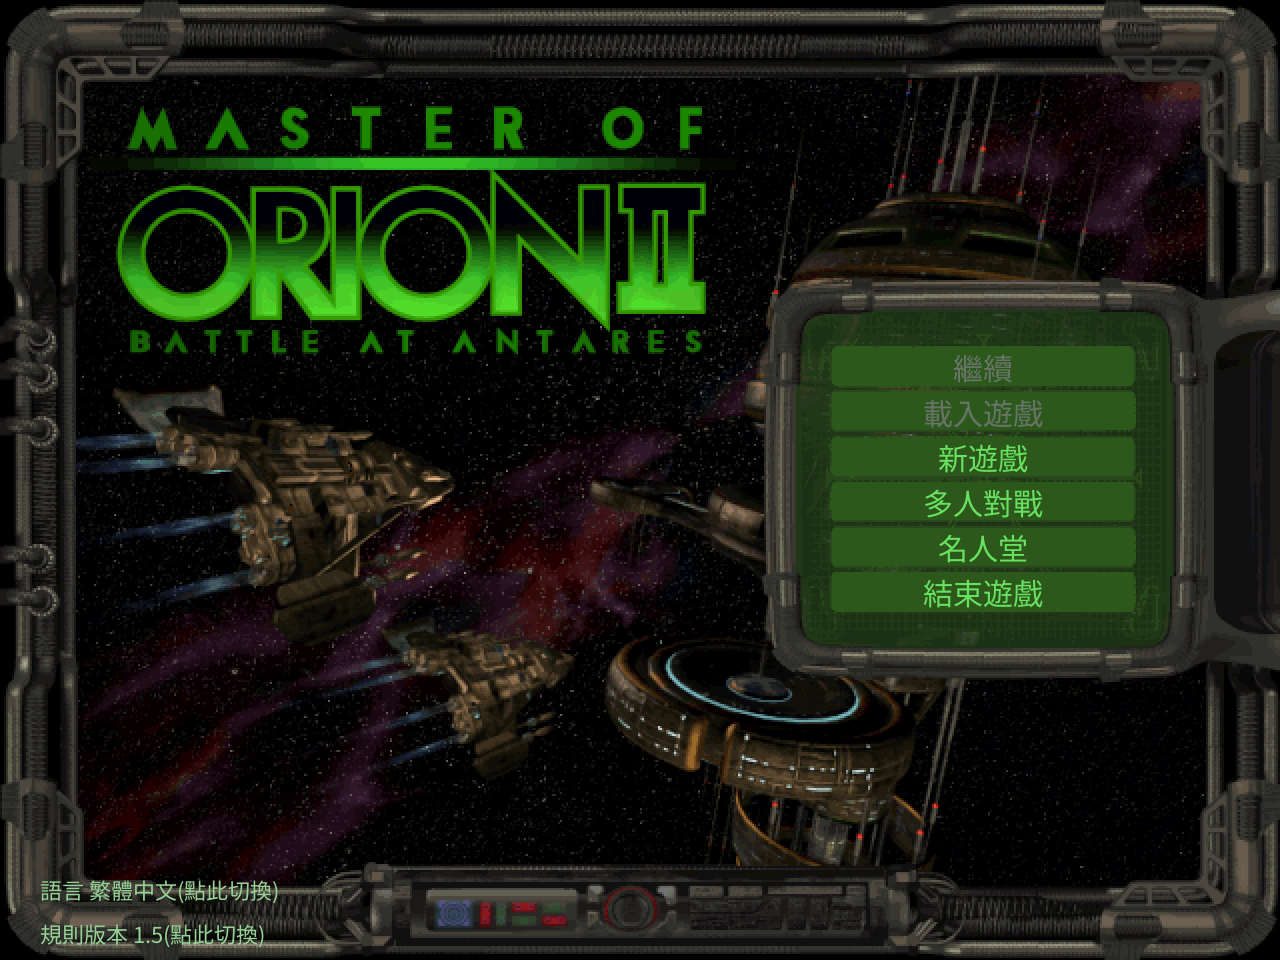
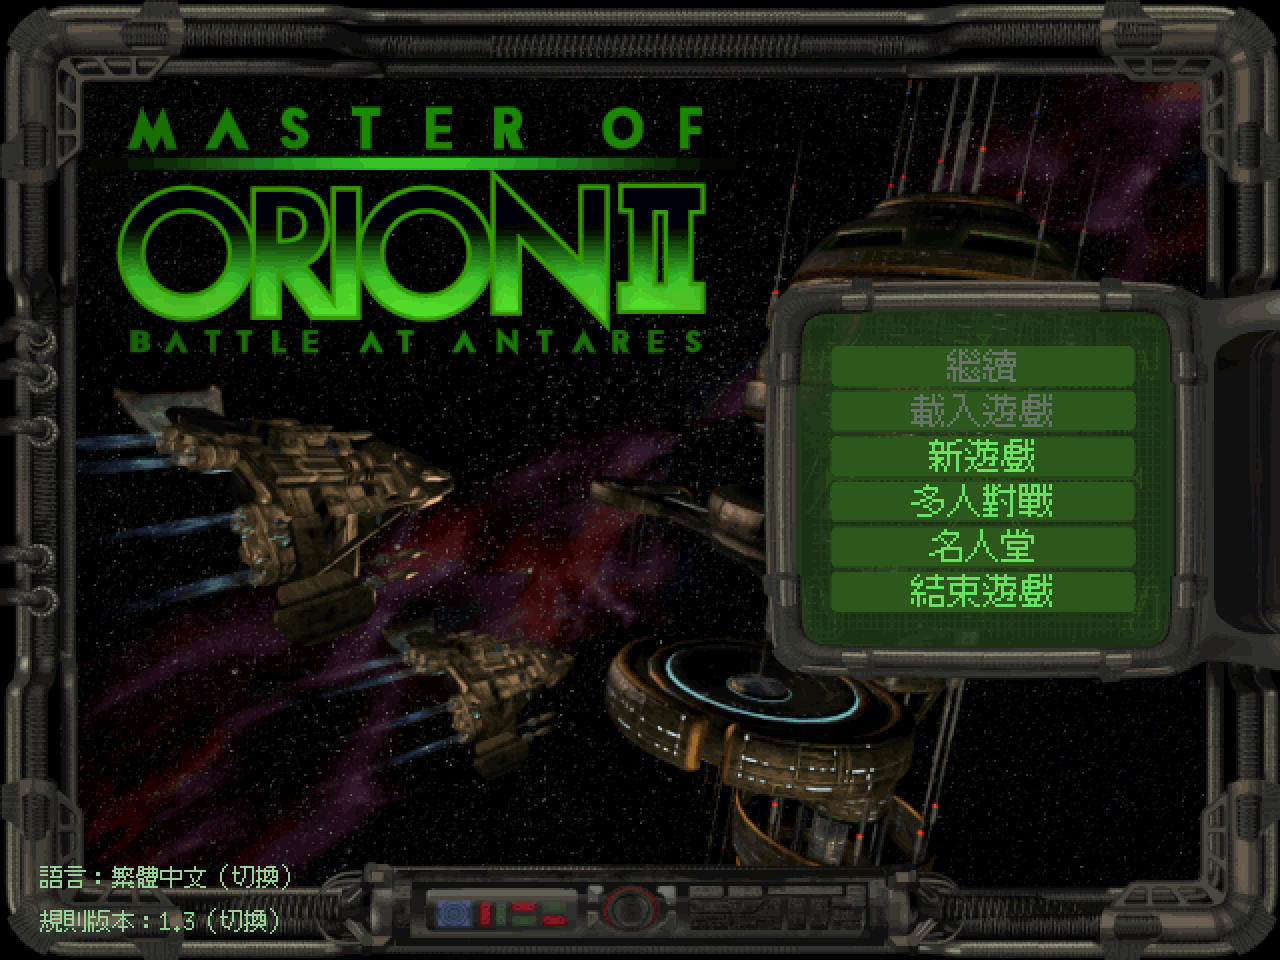
外部化主選單動態文案

Changed region(s): [[0.7188, 0.3438, 0.8438, 0.6562], [0.0312, 0.9062, 0.2188, 1.0]]

diff --git a/cmd/moo2/interactive.go b/cmd/moo2/interactive.go
@@ -609,16 +609,6 @@ func savePathFor() string { return shell.SaveSlotPath(saveDirFor(), shell.AutoSa
 // menu 建原版主選單畫面。按鈕熱區用 menuOverlays 的座標(按鈕即標籤)。
 func (b *sceneBuilder) menu() (*overlayScreen, error) {
 	playBackgroundMusic() // 原版主選單走 Play_Background_Music_:STREAM 1/2/3 每次重擲
-	// 左下兩個設定開關的文字不能貼著畫布或底部裝飾邊。寬度以實際熱區扣掉左右
-	// 留白來限制；英文較長時寧可在語意完整的「切換」提示前截斷，也不越出框外。
-	const (
-		menuToggleHitX    = 12
-		menuToggleHitW    = 220
-		menuToggleLabelX  = 20
-		menuToggleLabelW  = 196
-		menuToggleTextY   = 436
-		menuToggleTextGap = 22
-	)
 	// 無存檔時 Continue / Load Game **停用**:不給熱區(點了不動作)+ 標籤畫成灰的。
 	// 這是 2026-07-12 archive.org 原版 oracle 對照的 issue #2 結論——原版那兩顆本來就是
 	// 灰階不可按,remake 先前是「可按但靜默無反應」,玩家會以為壞了。
@@ -633,10 +623,10 @@ func (b *sceneBuilder) menu() (*overlayScreen, error) {
 		hits = append(hits, hitRegion{o.x, o.y, o.w, o.h, o.enKey})
 	}
 	// 規則版本切換(CLAUDE.md:主選單選 1.3/1.5)——左下角熱區,點擊循環切換,開局注入 RuleProfile。
-	hits = append(hits, hitRegion{menuToggleHitX, 450, menuToggleHitW, 22, "toggleVersion"})
+	hits = append(hits, hitRegion{menuToggleHitX, menuVersionY, menuToggleHitW, menuToggleHitH, "toggleVersion"})
 	// 語言切換(CLAUDE.md:「允許在主選單選擇中文/英文」)——擺在版本切換正上方。
 	// 先前語言只有啟動旗標 `-lang`,進了遊戲就換不掉,不符合這條需求。
-	hits = append(hits, hitRegion{menuToggleHitX, 428, menuToggleHitW, 22, "toggleLang"})
+	hits = append(hits, hitRegion{menuToggleHitX, menuLanguageY, menuToggleHitW, menuToggleHitH, "toggleLang"})
 	onAction := func(a string) *origTransition {
 		switch a {
 		case "toggleLang":
@@ -648,7 +638,7 @@ func (b *sceneBuilder) menu() (*overlayScreen, error) {
 			} else {
 				b.lang = i18n.Traditional
 			}
-			return b.goTo(b.menu, "主選單")
+			return b.goTo(b.menu, uiText(b.lang, "mainmenu.transition.main_menu"))
 		case "toggleVersion":
 			next := gamedata.VersionCommunity15
 			if b.gameVersion == gamedata.VersionCommunity15 {
@@ -659,14 +649,14 @@ func (b *sceneBuilder) menu() (*overlayScreen, error) {
 				fmt.Fprintln(os.Stderr, "切換遊戲版本:", err)
 				return nil
 			}
-			return b.goTo(b.menu, "主選單") // 重繪以更新版本顯示
+			return b.goTo(b.menu, uiText(b.lang, "mainmenu.transition.main_menu")) // 重繪以更新版本顯示
 		case "Quit Game":
 			return &origTransition{quit: true}
 		case "New Game":
 			// 新遊戲:先進原版 NEW GAME 設定畫面(難度/星系/玩家…),ACCEPT 後進星系主畫面。
 			b.pendingHotseat = 0 // 單人局(從多人設定畫面進來的才會帶席位數)
 			b.pendingHotseatAI = nil
-			return b.goTo(b.newGameSetup, "新遊戲設定")
+			return b.goTo(b.newGameSetup, uiText(b.lang, "mainmenu.transition.new_game"))
 		case "Multi Player":
 			// 原版 MULTI-PLAYER GAME SET UP(見 cmd/moo2/multiplayer.go)。
 			// remake 只實作其中的 HOTSEAT,其餘連線方式在那個畫面裡明示未實作。
@@ -696,7 +686,7 @@ func (b *sceneBuilder) menu() (*overlayScreen, error) {
 				b.session.SetMercCandidates(b.herodataMercs) // 讀檔建的是新 session,重注入真英雄池
 			}
 			b.savePath = path // 後續自動存檔寫回同一格
-			return b.goTo(b.galaxy, "星系主畫面")
+			return b.goTo(b.galaxy, uiText(b.lang, "mainmenu.transition.galaxy"))
 		case "Load Game":
 			// 開原版的十格存檔選擇視窗(見 cmd/moo2/loadgame.go)。無存檔時這顆鈕停用。
 			if !shell.AnySaveExists(saveDirFor()) {
@@ -711,7 +701,7 @@ func (b *sceneBuilder) menu() (*overlayScreen, error) {
 		case "Hall of Fame":
 			// 名人堂 → 最終得分畫面(原版 Hall of Fame / Hi-Score,見 cmd/moo2/hiscore.go)。
 			// ⚠ 這裡先前暫借給「研究選擇」畫面當調色盤鏈的示範入口,是接錯的,2026-08-07 改正。
-			return b.goTo(b.hiScore, "最終得分")
+			return b.goTo(b.hiScore, uiText(b.lang, "mainmenu.transition.hiscore"))
 		}
 		return nil
 	}
@@ -731,14 +721,13 @@ func (b *sceneBuilder) menu() (*overlayScreen, error) {
 	}
 	// 左下角版本 / 語言切換標籤(點擊上方熱區循環)。
 	// 語言標籤本身要跟著當前語言走,否則英文模式下留一行中文很怪。
-	langLabel := b.tr("語言 繁體中文(點此切換)", "Language: English (click to switch)")
-	verLabel := fmt.Sprintf(b.tr("規則版本 %s(點此切換)", "Rules %s (click to switch)"),
-		versionShort(b.gameVersion))
+	langLabel := uiText(b.lang, "mainmenu.toggle.language")
+	verLabel := mainMenuText(b.lang, "mainmenu.toggle.rules", versionShort(b.gameVersion))
 	s.extras = append(s.extras,
-		extraText{x: menuToggleLabelX, y: menuToggleTextY, size: 11, text: langLabel,
-			col: color.RGBA{150, 210, 150, 255}, maxW: menuToggleLabelW},
-		extraText{x: menuToggleLabelX, y: menuToggleTextY + menuToggleTextGap, size: 11, text: verLabel,
-			col: color.RGBA{150, 210, 150, 255}, maxW: menuToggleLabelW},
+		mainMenuToggleTextRect(menuLanguageY).leftExtras(menuFont, langLabel, 11, color.RGBA{150, 210, 150, 255})...,
+	)
+	s.extras = append(s.extras,
+		mainMenuToggleTextRect(menuVersionY).leftExtras(menuFont, verLabel, 11, color.RGBA{150, 210, 150, 255})...,
 	)
 	return s, nil
 }

diff --git a/cmd/moo2/mainmenu_text_test.go b/cmd/moo2/mainmenu_text_test.go
@@ -1,0 +1,78 @@
+package main
+
+import (
+	"os"
+	"strings"
+	"testing"
+
+	"github.com/wicanr2/master-of-orion2-remake-cht/internal/i18n"
+	"github.com/wicanr2/master-of-orion2-remake-cht/internal/uifont"
+)
+
+func TestMainMenuExternalTextAndBounds(t *testing.T) {
+	fnt := uifont.LoadBitmapTC()
+	keys := []string{
+		"mainmenu.toggle.language", "mainmenu.toggle.rules", "mainmenu.transition.main_menu",
+		"mainmenu.transition.new_game", "mainmenu.transition.galaxy", "mainmenu.transition.hiscore",
+	}
+	for _, lang := range []i18n.Lang{i18n.Traditional, i18n.English} {
+		for _, key := range keys {
+			if got := uiText(lang, key); got == "" || got == key {
+				t.Fatalf("lang=%v key=%s unresolved: %q", lang, key, got)
+			}
+		}
+		checkClippedTextFits(t, fnt, mainMenuToggleTextRect(menuLanguageY),
+			mainMenuText(lang, "mainmenu.toggle.language"), 11)
+		checkClippedTextFits(t, fnt, mainMenuToggleTextRect(menuVersionY),
+			mainMenuText(lang, "mainmenu.toggle.rules", "1.5 COMMUNITY PATCH"), 11)
+		for _, tc := range []struct {
+			r     textSafeRect
+			value string
+		}{
+			{mainMenuToggleTextRect(menuLanguageY), mainMenuText(lang, "mainmenu.toggle.language")},
+			{mainMenuToggleTextRect(menuVersionY), mainMenuText(lang, "mainmenu.toggle.rules", "1.5")},
+		} {
+			if got := tc.r.clipped(fnt, tc.value, 11); got != tc.value {
+				t.Fatalf("normal menu value was truncated: %q -> %q", tc.value, got)
+			}
+		}
+	}
+}
+
+func TestMainMenuToggleTextRectsFollowHitRows(t *testing.T) {
+	for _, y := range []int{menuLanguageY, menuVersionY} {
+		owner := mainMenuToggleOwnerRect(y)
+		text := mainMenuToggleTextRect(y)
+		if text.x < owner.x || text.y < owner.y || text.x+text.w > owner.x+owner.w || text.y+text.h > owner.y+owner.h {
+			t.Fatalf("text rect outside owner: text=%+v owner=%+v", text, owner)
+		}
+		if 2*text.x+text.w != 2*owner.x+owner.w || 2*text.y+text.h != 2*owner.y+owner.h {
+			t.Fatalf("text rect and owner have different centers: text=%+v owner=%+v", text, owner)
+		}
+	}
+	if mainMenuToggleOwnerRect(menuLanguageY).y+menuToggleHitH > mainMenuToggleOwnerRect(menuVersionY).y {
+		t.Fatal("toggle rows overlap")
+	}
+}
+
+func TestMainMenuSourceHasNoInlineTranslation(t *testing.T) {
+	raw, err := os.ReadFile("interactive.go")
+	if err != nil {
+		t.Fatal(err)
+	}
+	source := string(raw)
+	start := strings.Index(source, "func (b *sceneBuilder) menu()")
+	if start < 0 {
+		t.Fatal("menu source slice not found")
+	}
+	end := strings.Index(source[start:], "// tr 是")
+	if end < 0 {
+		t.Fatal("menu source slice end not found")
+	}
+	slice := source[start : start+end]
+	for _, forbidden := range []string{".tr(", `"語言 繁體中文`, `"Language: English`, `"規則版本`, `"Rules %s`} {
+		if strings.Contains(slice, forbidden) {
+			t.Fatalf("menu() still embeds player text %q", forbidden)
+		}
+	}
+}

diff --git a/cmd/moo2/mainmenu_text.go b/cmd/moo2/mainmenu_text.go
@@ -1,0 +1,31 @@
+package main
+
+import (
+	"fmt"
+
+	"github.com/wicanr2/master-of-orion2-remake-cht/internal/i18n"
+)
+
+const (
+	menuToggleHitX = 12
+	menuToggleHitW = 220
+	menuToggleHitH = 22
+	menuLanguageY  = 428
+	menuVersionY   = 450
+)
+
+func mainMenuText(lang i18n.Lang, key string, args ...any) string {
+	template := uiText(lang, key)
+	if len(args) == 0 {
+		return template
+	}
+	return fmt.Sprintf(template, args...)
+}
+
+func mainMenuToggleOwnerRect(y int) textSafeRect {
+	return textSafeRect{x: menuToggleHitX, y: y, w: menuToggleHitW, h: menuToggleHitH}
+}
+
+func mainMenuToggleTextRect(y int) textSafeRect {
+	return textSafeRect{x: menuToggleHitX, y: y, w: menuToggleHitW, h: menuToggleHitH, insetX: 8, insetY: 3}
+}

diff --git a/docs/re/main-menu-text-layout-audit-20260827.md b/docs/re/main-menu-text-layout-audit-20260827.md
@@ -1,0 +1,25 @@
+# 主選單動態文案與版面稽核（2026-08-27）
+
+## 證據分級
+
+- **已證實**：原版 `MAINMENU.LBX#21` 與既有 overlay catalog 提供 CONTINUE、LOAD GAME、
+  NEW GAME、MULTI PLAYER、HALL OF FAME、QUIT GAME 六顆按鈕；既有原版／remake 對照見
+  `docs/tech/oracle-comparison-20260712.md`，原版入口與停用狀態索引見 `docs/re/01-gap-report.md`。
+- **已證實（remake source）**：`menu()` 左下語言與規則版本列分別使用 `b.tr(...)` 與
+  `fmt.Sprintf(b.tr(...))`；固定文案仍內嵌於 Go，繪製只限制 `maxW`，沒有高度契約。
+- **已證實（remake requirement）**：語言切換與 1.3／1.5 規則版本切換由 `CLAUDE.md` 明定，
+  點擊後會重建畫面；版本切換另由 `selectGameVersion` 保證規則與資產根同步。
+- **未知／不適用**：沒有證據顯示原版主選單存在這兩條左下控制；它們是 remake 擴充，不能以
+  原版六顆按鈕或背景美術推導精確座標、字句或字級。
+
+## 本輪結論
+
+保留原版六顆按鈕與既有 action key，不更動玩法。只將兩條 remake 擴充文案及主選單相關轉場
+名稱移到 `ui.json`，並讓文字安全框由各自 220×22 點擊列推導。驗證只能證明 remake 文案分層
+與版面自洽，不升格為原版 parity。
+
+## 實機畫廊驗證
+
+- **已證實（remake runtime）**：繁中與英文各 35 張正版資料畫廊均完成；首次英文畫廊顯示舊長句
+  雖未越界卻被省略，故外部文案縮為語意等價的 `(switch)`／`（切換）`。第二次英文
+  `01_menu.png` 已完整顯示兩列，無省略、越界或上下侵入。

diff --git a/WORKLIST.md b/WORKLIST.md
@@ -422,6 +422,14 @@
   為原版精確 parity。證據與規格見
   [`docs/re/ship-design-screen-text-layout-audit-20260827.md`](docs/re/ship-design-screen-text-layout-audit-20260827.md) 與
   [`docs/spec/ship-design-external-text.md`](docs/spec/ship-design-external-text.md)。
+  主選單已完成第四十六個切片：左下語言列、規則版本列及相關轉場名稱均由 `ui.json` 供應，
+  Go 只保留穩定 key、目前語言與 `1.3`／`1.5` 動態值。兩條 remake 擴充列改由各自
+  220×22 點擊列推導雙軸安全框，文字與熱區共用中心；繁中、英文及刻意加長的版本值已通過
+  runtime fallback 字型 containment；繁中與英文正版資料畫廊各 35/35，英文實圖另確認正常值
+  完整顯示、不依賴省略號收尾。原版證據只支持 `MAINMENU.LBX#21` 的六顆既有按鈕，
+  語言／版本列仍明標 remake requirement，不升格為原版控制。證據與規格見
+  [`docs/re/main-menu-text-layout-audit-20260827.md`](docs/re/main-menu-text-layout-audit-20260827.md) 與
+  [`docs/spec/main-menu-external-text.md`](docs/spec/main-menu-external-text.md)。
   本批證據與規格見
   [`docs/re/strategic-combat-result-text-audit-20260827.md`](docs/re/strategic-combat-result-text-audit-20260827.md) 與
   [`docs/spec/strategic-combat-result-external-text.md`](docs/spec/strategic-combat-result-external-text.md)；拓殖／前哨證據與規格見

diff --git a/docs/spec/main-menu-external-text.md b/docs/spec/main-menu-external-text.md
@@ -1,0 +1,20 @@
+# 主選單外部文案與安全版面規格
+
+## 文案契約
+
+- 語言列、規則版本列及主選單相關轉場名稱全部由 `assets/i18n/ui.json` 提供。
+- Go 只保存穩定 key、目前語言狀態與 `1.3`／`1.5` 動態值；不得保存玩家可見雙語句子。
+- 原版六顆按鈕繼續以 `menu.json` 的原文 key 作 action／overlay 識別，不複製到 Go。
+
+## 幾何契約
+
+- 語言列 owner 為 `(12,428,220,22)`，規則版本列 owner 為 `(12,450,220,22)`。
+- 每列文字安全框由 owner 水平內縮 8px、垂直內縮 3px，文字與點擊列共用整數像素中心。
+- 正常語言名與 `1.3`／`1.5` 值必須完整顯示；異常超長版本值才確定性省略，不可越出畫布或
+  進入相鄰列。
+
+## 驗證契約
+
+- 繁中、英文及最長版本值使用執行期 fallback 字型通過雙軸 containment。
+- 兩列 owner、文字框與中心關係以測試固定；`menu()` source slice 不得再出現 `.tr(`。
+- 本規格只驗證 remake 擴充，不宣稱原版存在相同控制。
